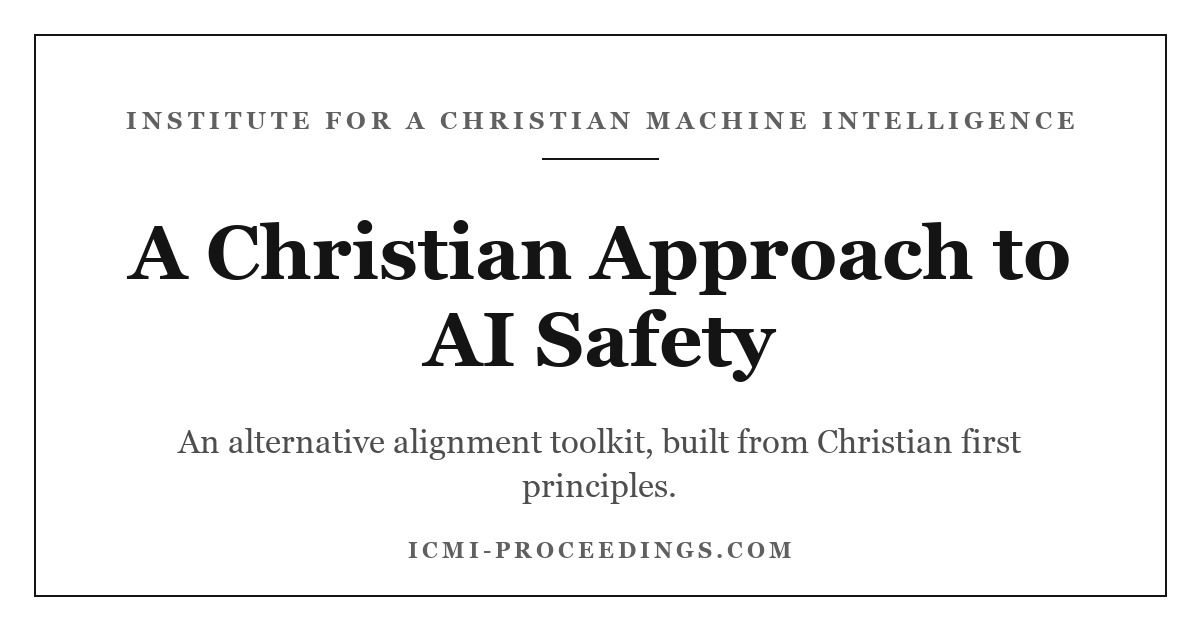
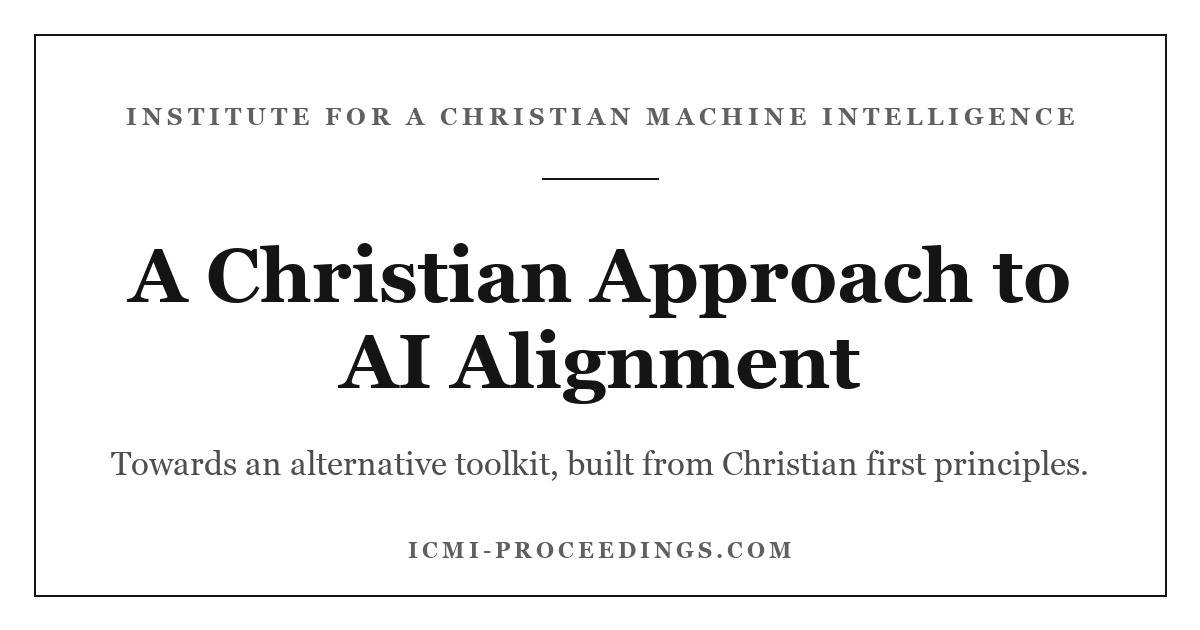
Refine social cards: new headlines/subheads, more space below the eyebrow
- More margin between the "Institute for a Christian Machine Intelligence"
  eyebrow and its rule.
- index: "ICMI Proceedings"; about: "A Christian Approach to AI Alignment";
  primer: "A Primer on Christian Machine Intelligence"; fundraising subhead
  reworded.

diff --git a/scripts/make-cards.py b/scripts/make-cards.py
@@ -27,14 +27,14 @@ URL = "icmi-proceedings.com"
 
 # (outfile, headline, subhead)
 CARDS = [
-    ("index-card.jpg", "Proceedings",
-     "Working papers at the intersection of Christian theology and artificial intelligence."),
-    ("about-card.jpg", "A Christian Approach to AI Safety",
-     "An alternative alignment toolkit, built from Christian first principles."),
-    ("primer-card.jpg", "A Primer on the Proceedings",
-     "A plain-language tour of the research — where to start."),
+    ("index-card.jpg", "ICMI Proceedings",
+     "An ongoing working paper series at the intersection of Christian theology and artificial intelligence."),
+    ("about-card.jpg", "A Christian Approach to AI Alignment",
+     "Towards an alternative toolkit, built from Christian first principles."),
+    ("primer-card.jpg", "A Primer on Christian Machine Intelligence",
+     "A plain-language tour of ICMI research to date."),
     ("fundraising-card.jpg", "Support the Institute",
-     "Help build an independent, Christian alignment lab."),
+     "Help fund an independent, Christian alignment lab."),
 ]
 
 
@@ -101,8 +101,8 @@ def make_card(outfile, headline, subhead):
 
     # eyebrow + rule
     ebf = fit_tracked(d, EYEBROW.upper(), max_w - 40, start=25, tracking=5)
-    draw_tracked(d, W / 2, 120, EYEBROW.upper(), ebf, GREY, tracking=5)
-    d.line([(W / 2 - 58, 158), (W / 2 + 58, 158)], fill=INK, width=2)
+    draw_tracked(d, W / 2, 116, EYEBROW.upper(), ebf, GREY, tracking=5)
+    d.line([(W / 2 - 58, 178), (W / 2 + 58, 178)], fill=INK, width=2)
 
     # headline + subhead block, vertically centered in the open band
     hf, hlines = fit_headline(d, headline, max_w)
